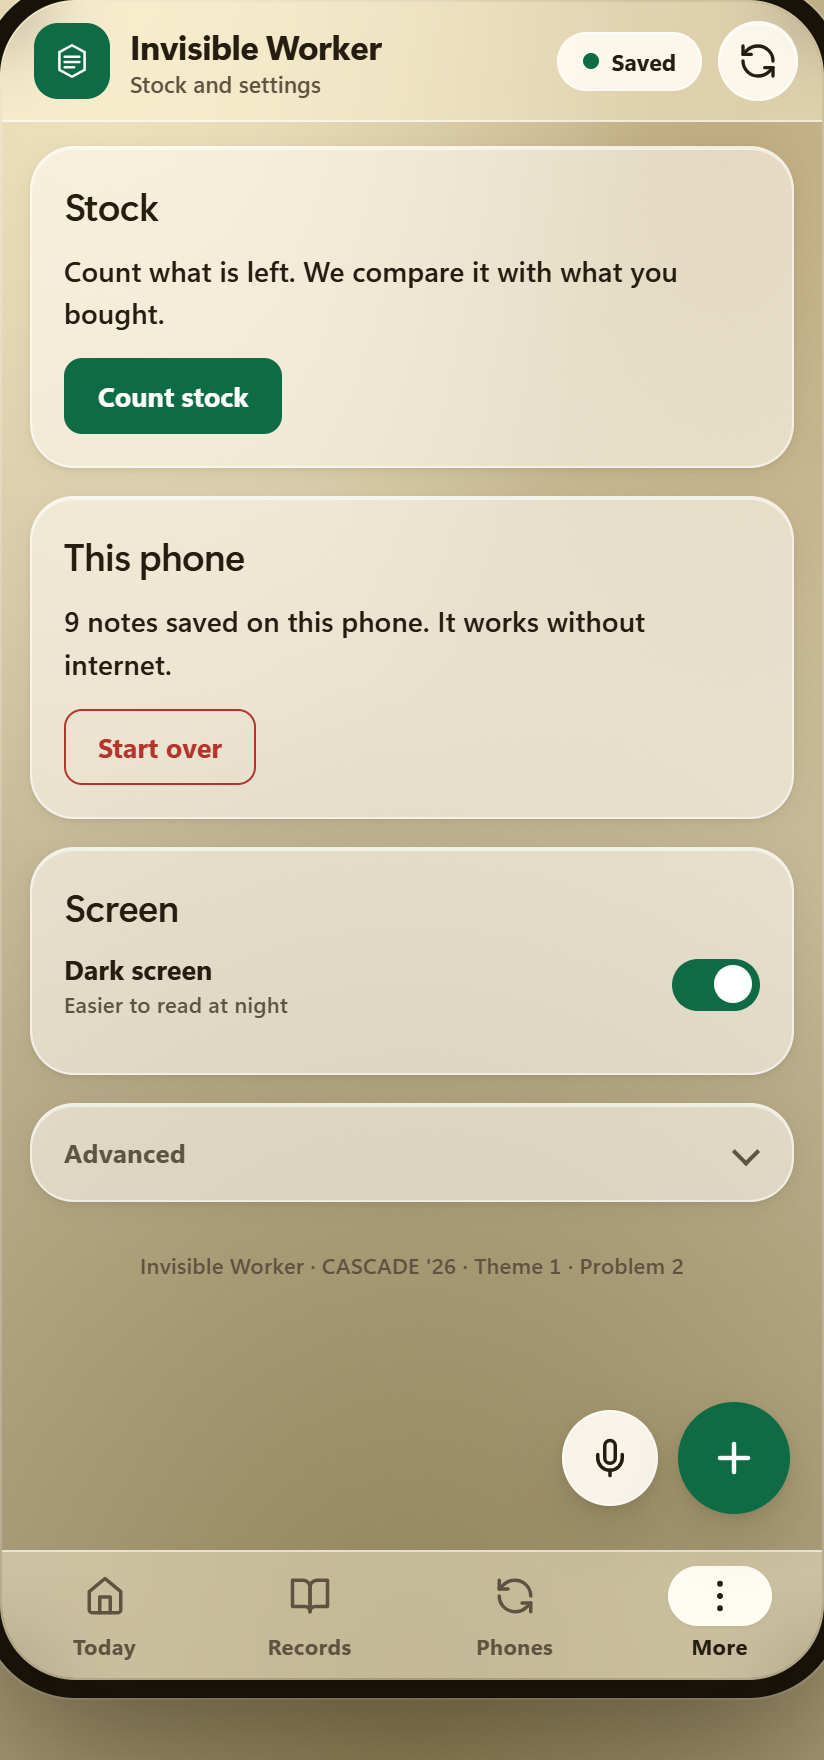
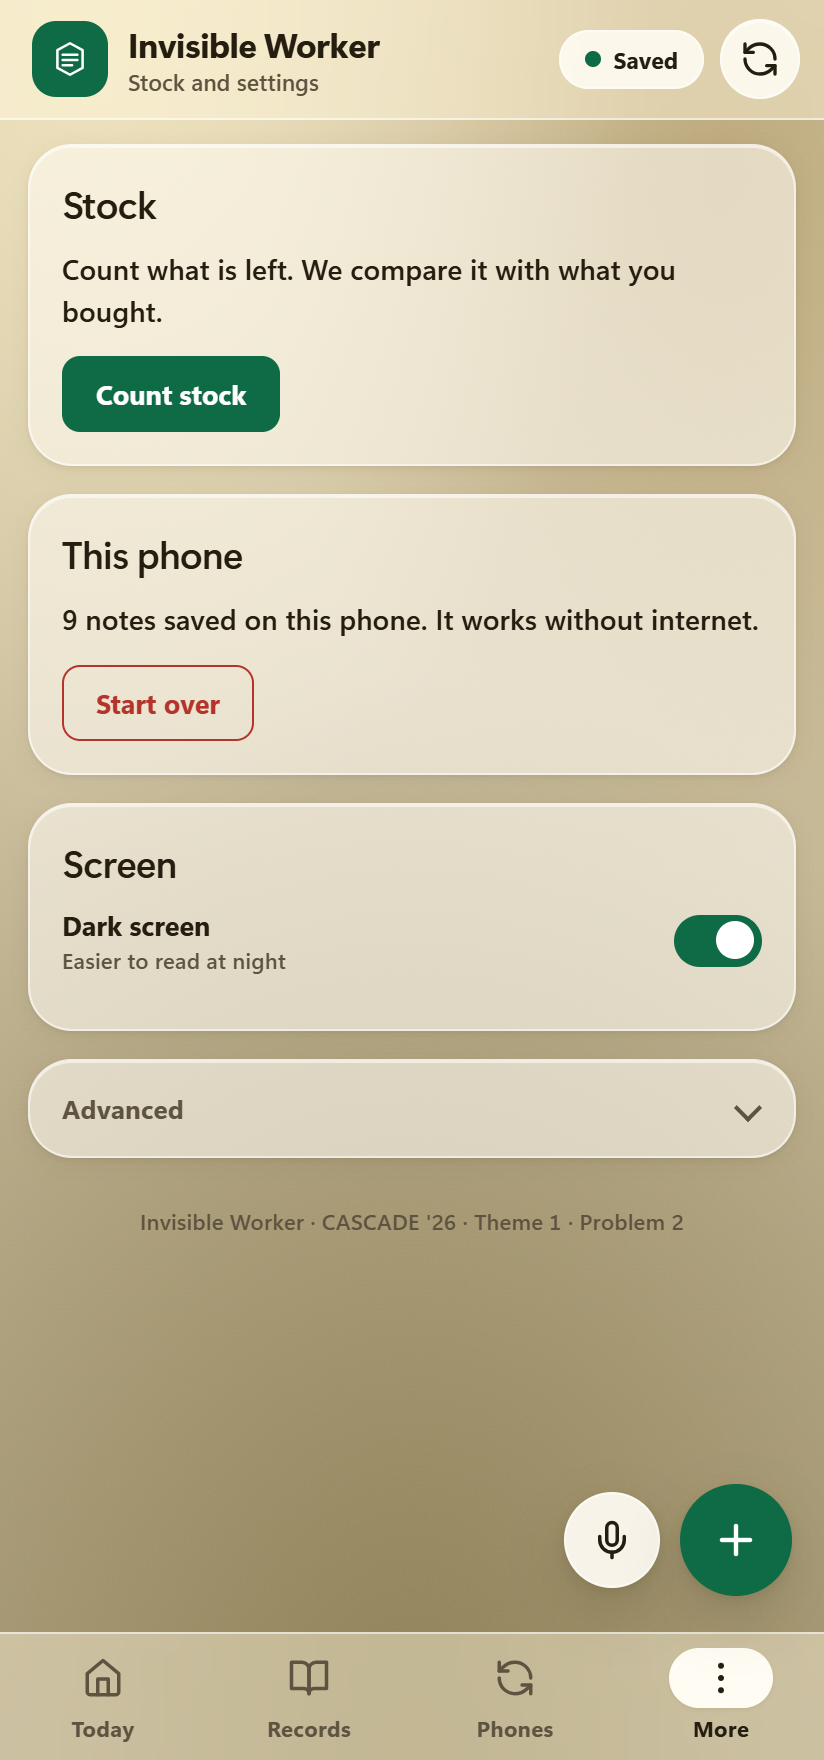
fix: restore full-screen app on phones
A misplaced brace left the 412x880 desktop frame rule outside its media query, so phones rendered a phone-frame inside the screen. The frame is now inside the desktop query and only applies to mouse devices; touch screens get a full-bleed app. System bar colors now follow the app theme instead of the OS theme.

diff --git a/frontend/app.js b/frontend/app.js
@@ -316,7 +316,7 @@
   /* ---------- Tabs, sheets and device motion ---------- */
 
   const reduceMotion = () => window.matchMedia("(prefers-reduced-motion: reduce)").matches;
-  const desktopFrame = () => window.matchMedia("(min-width: 700px)").matches;
+  const desktopFrame = () => window.matchMedia("(min-width: 700px) and (hover: hover) and (pointer: fine)").matches;
   const deviceMotion = { x: 0, y: 0, s: 1, tx: 0, ty: 0, ts: 1, frame: 0 };
   let pageEnterTimer = 0;
 
@@ -2276,6 +2276,13 @@
 
   /* ---------- Events ---------- */
 
+  function setTheme(theme) {
+    document.documentElement.dataset.theme = theme;
+    window.localStorage.setItem("iw-theme", theme);
+    const meta = document.getElementById("theme-color");
+    if (meta) meta.setAttribute("content", theme === "dark" ? "#100d07" : "#d9cdac");
+  }
+
   function bindEvents() {
     $("#refresh-btn").addEventListener("click", () => refreshLocal());
     $("#retry-btn").addEventListener("click", () => refreshLocal());
@@ -2336,9 +2343,7 @@
     const themeToggle = $("#theme-toggle");
     themeToggle.checked = document.documentElement.dataset.theme === "dark";
     themeToggle.addEventListener("change", () => {
-      const theme = themeToggle.checked ? "dark" : "light";
-      document.documentElement.dataset.theme = theme;
-      window.localStorage.setItem("iw-theme", theme);
+      setTheme(themeToggle.checked ? "dark" : "light");
     });
 
     document.addEventListener("click", (event) => {

diff --git a/frontend/index.html b/frontend/index.html
@@ -4,8 +4,7 @@
   <meta charset="utf-8">
   <meta name="viewport" content="width=device-width, initial-scale=1, viewport-fit=cover">
   <meta name="color-scheme" content="light dark">
-  <meta name="theme-color" media="(prefers-color-scheme: light)" content="#d9cdac">
-  <meta name="theme-color" media="(prefers-color-scheme: dark)" content="#100d07">
+  <meta name="theme-color" id="theme-color" content="#d9cdac">
   <meta name="mobile-web-app-capable" content="yes">
   <meta name="apple-mobile-web-app-capable" content="yes">
   <meta name="apple-mobile-web-app-status-bar-style" content="black-translucent">
@@ -20,7 +19,11 @@
         var stored = localStorage.getItem("iw-theme");
         var theme = stored || (window.matchMedia("(prefers-color-scheme: dark)").matches ? "dark" : "light");
         document.documentElement.dataset.theme = theme;
-      } catch (error) { document.documentElement.dataset.theme = "light"; }
+        var themeMeta = document.getElementById("theme-color");
+        if (themeMeta) themeMeta.setAttribute("content", theme === "dark" ? "#100d07" : "#d9cdac");
+      } catch (error) {
+        document.documentElement.dataset.theme = "light";
+      }
     })();
   </script>
   <link rel="stylesheet" href="styles.css">

diff --git a/frontend/styles.css b/frontend/styles.css
@@ -1480,7 +1480,7 @@ main::-webkit-scrollbar-track { background: transparent; }
 
 /* ---------- Desktop phone frame ---------- */
 
-@media (min-width: 700px) {
+@media (min-width: 700px) and (hover: hover) and (pointer: fine) {
   body {
     display: grid;
     place-items: center;
@@ -1490,19 +1490,15 @@ main::-webkit-scrollbar-track { background: transparent; }
   }
 
   .app {
-    transform: scale(var(--tilt-scale, 1)) rotateX(var(--tilt-x, 0deg)) rotateY(var(--tilt-y, 0deg));
-    transform-style: preserve-3d;
-    will-change: transform;
-    transform-origin: 50% 50%;
-  }
-}
-
-  .app {
     width: 412px;
     height: min(880px, calc(100dvh - 40px));
     border-radius: 38px;
     border: 1px solid rgba(255, 255, 255, .18);
     box-shadow: 0 30px 70px rgba(25, 18, 6, .45), 0 0 0 9px #171309, 0 0 0 10px rgba(255, 255, 255, .16);
+    transform: scale(var(--tilt-scale, 1)) rotateX(var(--tilt-x, 0deg)) rotateY(var(--tilt-y, 0deg));
+    transform-style: preserve-3d;
+    will-change: transform;
+    transform-origin: 50% 50%;
   }
 }
 
